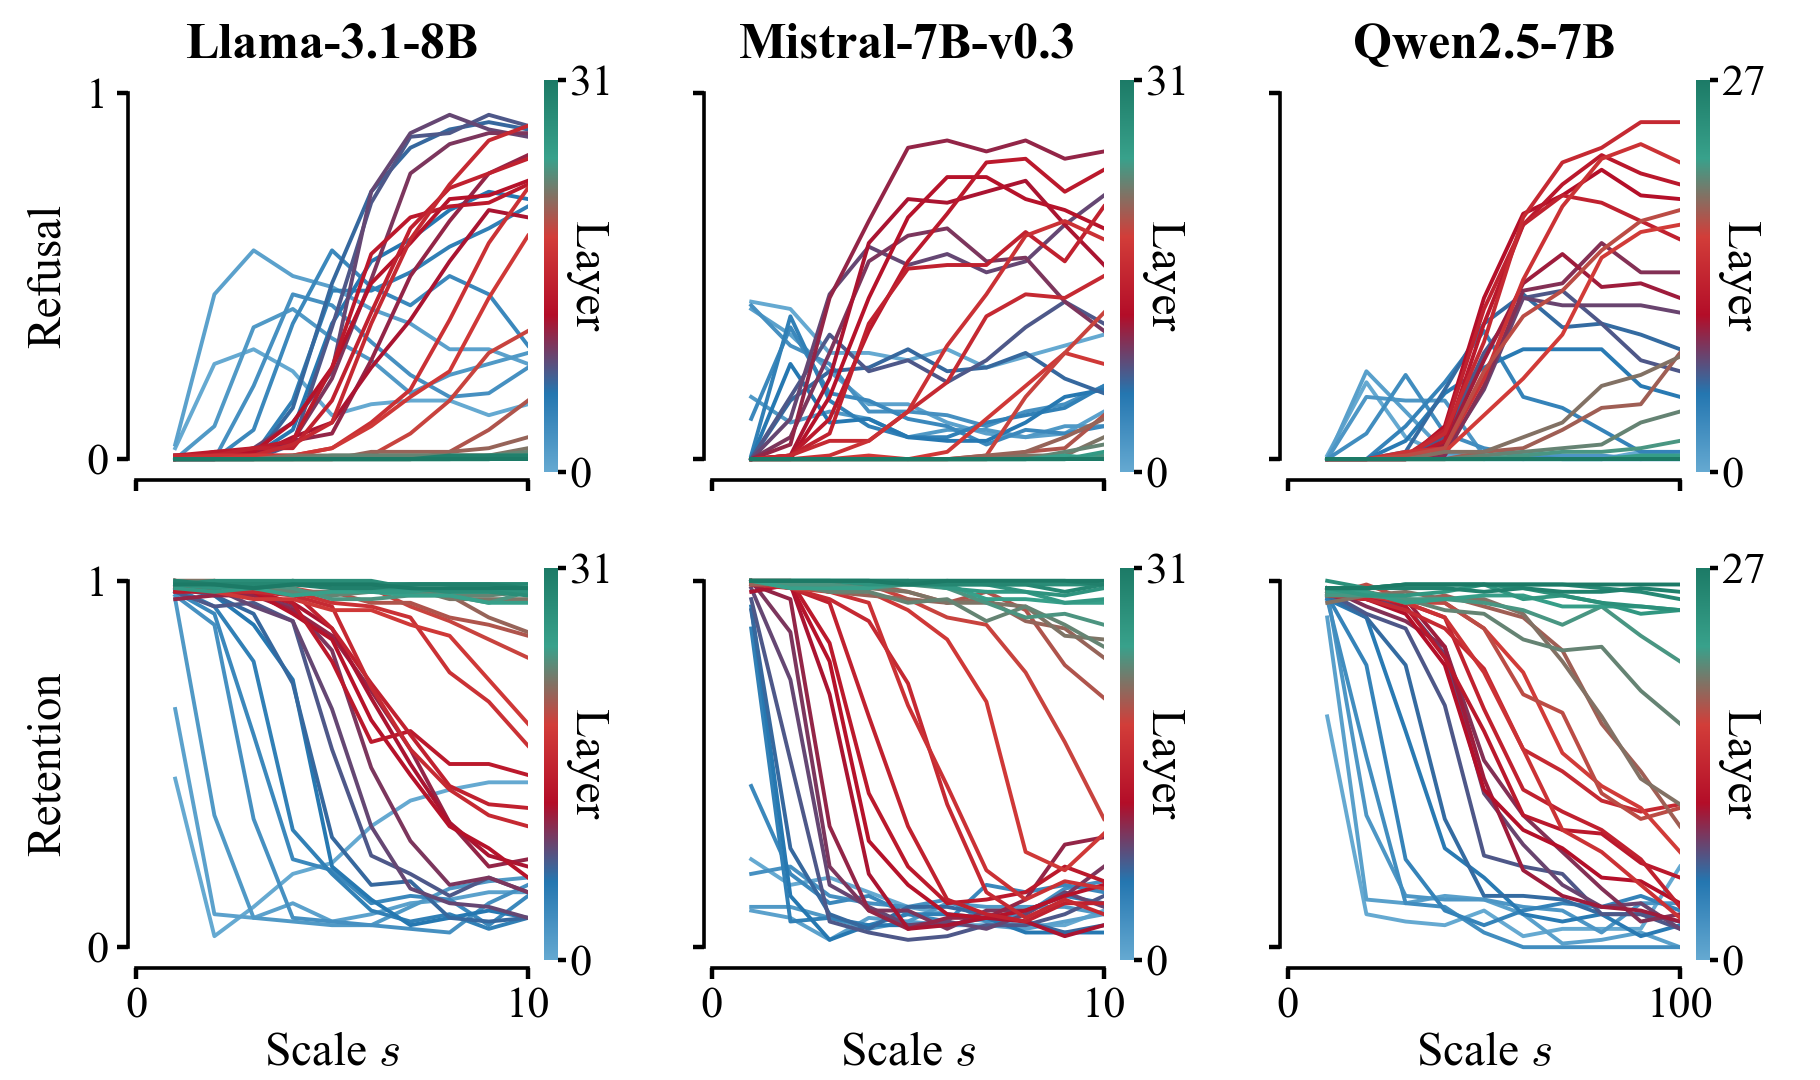
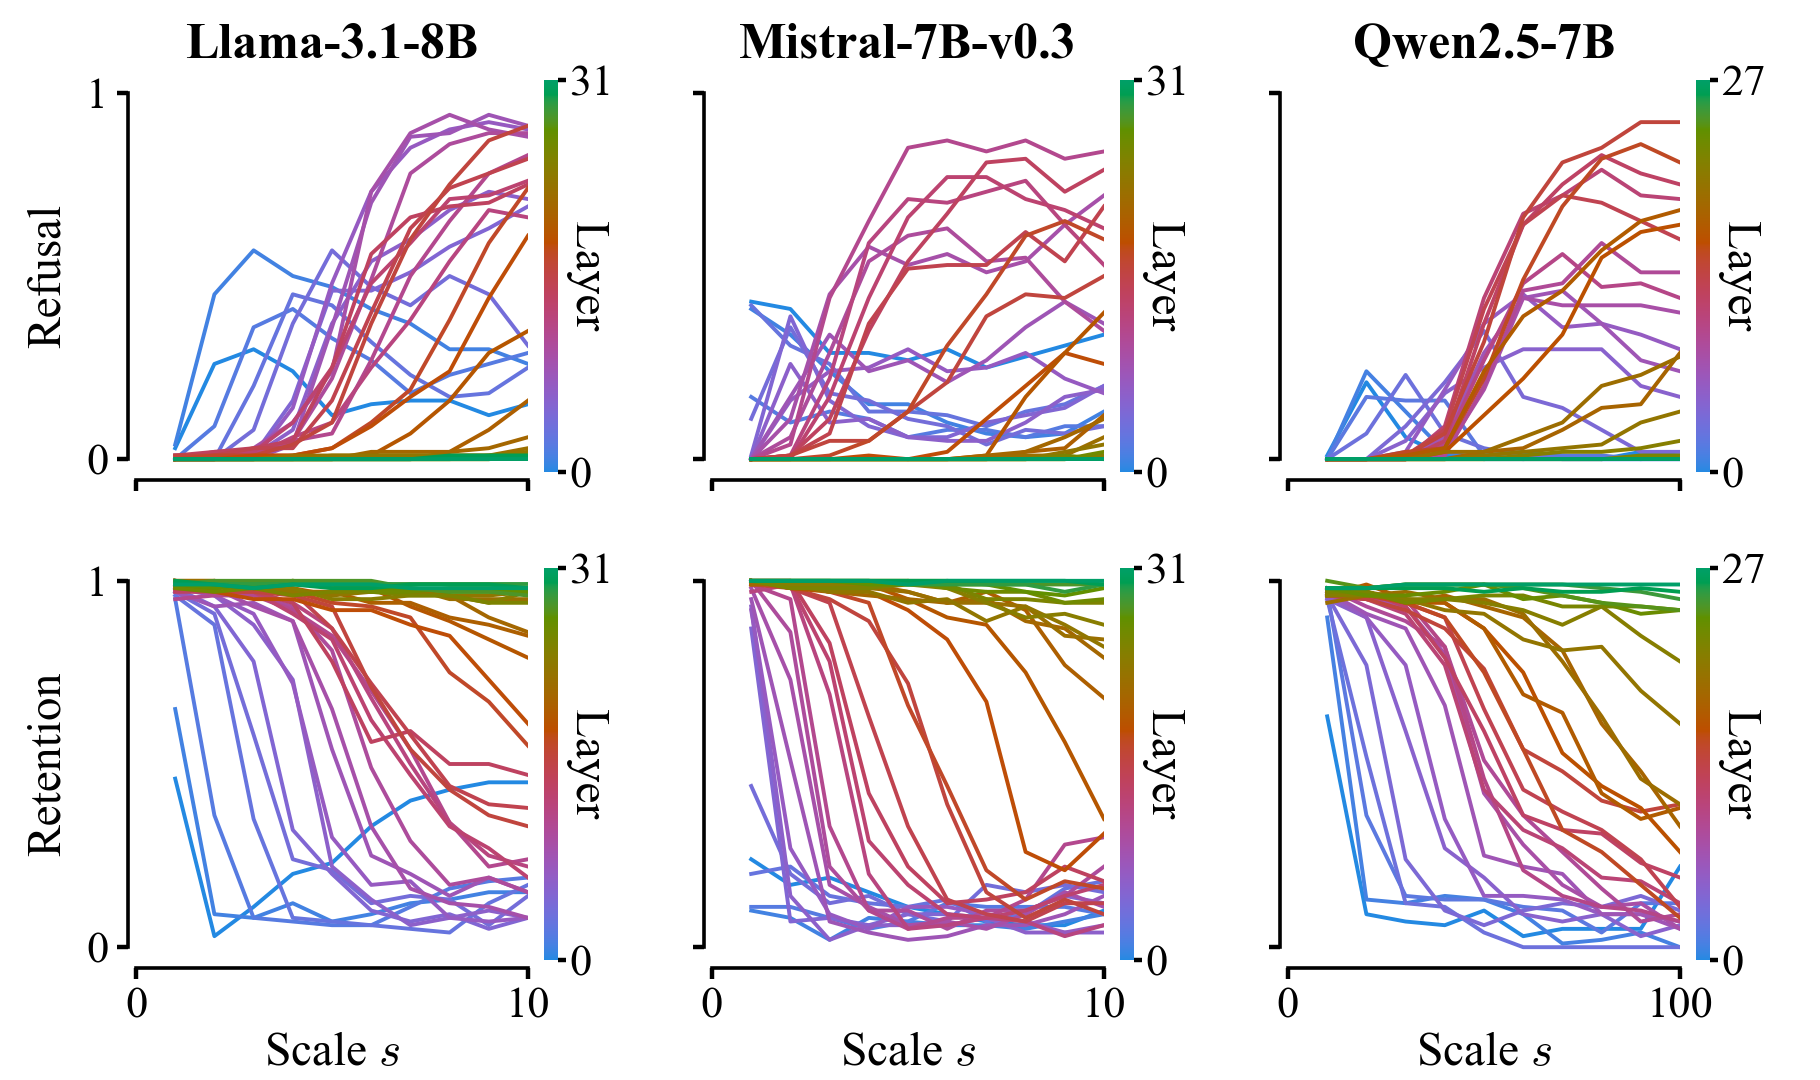
Use smooth full-depth hue gradient and freeze semantic figure

diff --git a/parking/cosyne_refusal_figures/replot.py b/parking/cosyne_refusal_figures/replot.py
@@ -56,6 +56,39 @@ def save(fig, name):
     plt.close(fig)
 
 
+def layer_colormap():
+    """Smooth hue sweep, sampled at equal distances along its Oklab path."""
+    # Oklab conversion: https://bottosson.github.io/posts/oklab/ (public domain).
+    def linear_rgb(lab):
+        light, a, b = lab.T
+        l = (light + .3963377774*a + .2158037573*b)**3
+        m = (light - .1055613458*a - .0638541728*b)**3
+        s = (light - .0894841775*a - 1.2914855480*b)**3
+        return np.column_stack((4.0767416621*l - 3.3077115913*m + .2309699292*s,
+                                -1.2684380046*l + 2.6097574011*m - .3413193965*s,
+                                -.0041960863*l - .7034186147*m + 1.7076147010*s))
+
+    t = np.linspace(0, 1, 4097)
+    hue = np.deg2rad(250 + 270*t)
+    light = .56 + .06*(2*t - 1)**2
+    # Reduce chroma only where necessary to stay in sRGB; keep hue/lightness.
+    low, high = np.zeros_like(t), np.full_like(t, .16)
+    for _ in range(24):
+        chroma = (low + high)/2
+        lab = np.column_stack((light, chroma*np.cos(hue), chroma*np.sin(hue)))
+        rgb = linear_rgb(lab)
+        inside = ((rgb >= 0) & (rgb <= 1)).all(axis=1)
+        low = np.where(inside, chroma, low)
+        high = np.where(inside, high, chroma)
+    lab = np.column_stack((light, low*np.cos(hue), low*np.sin(hue)))
+    distance = np.r_[0, np.cumsum(np.linalg.norm(np.diff(lab, axis=0), axis=1))]
+    equal_steps = np.linspace(0, distance[-1], len(t))
+    lab = np.column_stack([np.interp(equal_steps, distance, channel) for channel in lab.T])
+    rgb = np.clip(linear_rgb(lab), 0, 1)
+    rgb = np.where(rgb <= .0031308, 12.92*rgb, 1.055*rgb**(1/2.4)-.055)
+    return LinearSegmentedColormap.from_list("layer_depth", rgb, N=len(t))
+
+
 def layer_metrics():
     width = 4.55
     fig = plt.figure(figsize=(width, 2.7))
@@ -78,8 +111,7 @@ def layer_metrics():
         rates.insert(0, "model", model)
         rates["n"] = 100
         tables.append(rates)
-        anchors = ["#65A9D1", "#2476B0", "#B30D28", "#D23D39", "#38A18B", "#1C7A66"]
-        cmap = LinearSegmentedColormap.from_list("layer_depth", anchors, N=1024)
+        cmap = layer_colormap()
         norm = Normalize(vmin=0, vmax=int(d.layer.max()))
         for row, metric in enumerate(METRICS):
             ax = axes[row, col]
@@ -115,9 +147,10 @@ def layer_metrics():
     save(fig, "layer_metrics")
     LAYOUT['layer_metrics'].update({'subplot_inches':[.98,.98],
                                     'row_gap_inches':.24,'column_gap_inches':.46,'colorbars':6,
-                                    'layer_palette':'continuous linear interpolation',
-                                    'layer_palette_anchors':anchors,
-                                    'layer_palette_positions':[0,.2,.4,.6,.8,1]})
+                                    'layer_palette':'continuous Oklab hue sweep, equal path-distance samples',
+                                    'layer_palette_hue_degrees':[250,520],
+                                    'layer_palette_lightness_range':[.56,.62],
+                                    'layer_palette_max_chroma':.16})
 
 
 def draw_selectivity_schematic(fig, original):
@@ -390,23 +423,23 @@ def semantic_cloud():
 
 def main():
     OUT.mkdir(exist_ok=True); CACHE.mkdir(exist_ok=True)
-    # Figures 1 and 2 are frozen: preserve their existing artifacts byte-for-byte.
+    # Figures 1, 2, and 4 are frozen: preserve their artifacts byte-for-byte.
     SOURCES.update(json.loads((OUT/'source_hashes.json').read_text()))
     LAYOUT.update(json.loads((OUT/'layout.json').read_text()))
     for path in OUT.iterdir():
-        if path.stem.startswith(('layer_metrics','semantic_')):
+        if path.stem == 'layer_metrics':
             path.unlink()
     plt.rcParams.update({"font.family":"serif", "font.serif":["Times New Roman", "DejaVu Serif"],
         "mathtext.fontset":"cm", "font.size":8.5, "axes.labelsize":8.5, "xtick.labelsize":8, "ytick.labelsize":8,
         "axes.spines.top":False, "axes.spines.right":False, "axes.linewidth":.65,
         "legend.frameon":False, "figure.dpi":120, "savefig.dpi":400})
     record(UNIT / "inputs/refusal_example.png")
-    layer_metrics(); semantic_cloud()
+    layer_metrics()
     for path, digest in SOURCES.items():
         assert hashlib.sha256((ROOT/path).read_bytes()).hexdigest() == digest
     (OUT / "source_hashes.json").write_text(json.dumps(SOURCES, indent=2)+"\n")
     (OUT / "layout.json").write_text(json.dumps(LAYOUT,indent=2)+"\n")
-    print(f"Wrote Figures 3/4 to {OUT}; Figures 1/2 frozen; all input hashes unchanged.")
+    print(f"Wrote Figure 3 to {OUT}; Figures 1/2/4 frozen; all input hashes unchanged.")
 
 
 if __name__ == "__main__":

diff --git a/parking/cosyne_refusal_figures/README.md b/parking/cosyne_refusal_figures/README.md
@@ -43,12 +43,15 @@
 - Columns: Llama, Mistral, Qwen. Rows: refusal, retention.
 - Horizontal position: `Scale s`, the steering strength. Vertical position:
   refusal or retention rate, with endpoints 0 and 1.
-- Every layer has a line sampled from a continuous blue–red–green color scale.
-  Layer index is normalized from zero to the model's final layer, with no
-  bins, group boundaries, or separator lines. The six color anchors are
-  `#65A9D1`, `#2476B0`, `#B30D28`, `#D23D39`, `#38A18B`, and `#1C7A66`
-  at normalized depths 0, 0.2, 0.4, 0.6, 0.8, and 1. Colors interpolate
-  continuously between anchors; middle layers remain visibly red.
+- Every layer samples a continuous blue → purple → red → orange → green hue
+  sweep. Construct the path in Oklab polar coordinates with hue 250°–520°,
+  lightness 0.56 at its middle increasing smoothly to 0.62 at its ends, and
+  chroma at most 0.16. Reduce chroma only where needed to remain inside sRGB.
+  Sample the path at equal cumulative Oklab distances, then normalize layer
+  index over its model's full depth. This distributes visible color changes
+  across the whole range instead of concentrating them between shade families.
+  The darker red middle remains distinct on white. There are no bins, group
+  boundaries, separator lines, or faded curves.
 - Each subplot has its own color bar aligned to that subplot; its rotated
   `Layer` label is close to the bar. Only the left column repeats the shared
   0–1 y tick labels. Axis titles are `Refusal` and `Retention`.
@@ -63,14 +66,16 @@
 
 - Inputs are read-only. The script asserts full layer/strength coverage,
   100 unique question–concept rows per cell, and no missing metric labels.
-- The user confirmed the red middle and requested continuous transitions.
-  Preserve the blue/red/green hues; do not quantize depth into groups or change
-  the middle hue. Layer values, subplot sizes, and column gaps are unchanged.
-  Figures 1 and 2 remain frozen; the script regenerates Figures 3 and 4 only.
+- The user confirmed the red middle and requested a full-range gradient.
+  Use a smooth hue sweep; do not restore separate shade families or quantize
+  depth into groups. Layer values, subplot sizes, and column gaps are unchanged.
+  Figures 1, 2, and 4 are approved and frozen. The entry point regenerates
+  Figure 3 only; every semantic output is preserved byte-for-byte.
 
 ## References
 
 - `figs/fig5_layer_scale_sweeps/publish_params.py` and its README.
+- Oklab conversion and polar coordinates: [Björn Ottosson](https://bottosson.github.io/posts/oklab/).
 - Saved per-run `prefill_logit/config.yml`; `forget/refuse/calibration.py`.
 
 # selectivity
@@ -235,6 +240,8 @@
 
 ## Notes
 
+- Figure 4 is approved and frozen. Do not regenerate its image, alter its
+  layout/caption, or change its placement in Word without a new user request.
 - The old cached semantic labels match `main` exactly (900/900 per model).
   They differ from `prefill_logit` in 189 Llama, 175 Mistral, and 441 Qwen rows.
   The old correlations 0.40/0.52/0.21 therefore must not accompany the new bars.

diff --git a/parking/cosyne_refusal_figures/caption.md b/parking/cosyne_refusal_figures/caption.md
@@ -43,7 +43,7 @@ Layer and strength dependence. Refusal (top) and retention (bottom) versus scale
 ## Checks
 
 - Visual encoding checked against the final Word PDF and unit plots.
-- 920 settings, 100 targeted responses each; both means unchanged. Continuous blue–red–green scale, alpha 1.0; no numeric changes.
+- 920 settings, 100 targeted responses each; both means unchanged. Continuous hue sweep with equal Oklab path-distance sampling, blue through red to green, alpha 1.0; no numeric changes.
 - No additional results are asserted by this layout revision.
 
 # semantic_cloud
@@ -54,7 +54,7 @@ Semantic similarity and off-target refusal (spillover). A, MiniLM question embed
 
 ## Panel Notes
 
-- Figure 4. A: reconstructed original projected geometry without a frame, restored example-pair connections, inward Near/Far callouts, and a three-axis orientation key. Definitions remain in the caption. B: taller, narrow near/far bars with an internal legend and a single-line y-axis title.
+- Figure 4. A: reconstructed original projected geometry without a frame, restored example-pair connections, inward Near/Far callouts, and a three-axis orientation key. Definitions remain in the caption. B: taller, narrow near/far bars with an internal legend and a single-line y-axis title. Figure 4 is approved and frozen.
 
 ## Checks
 
